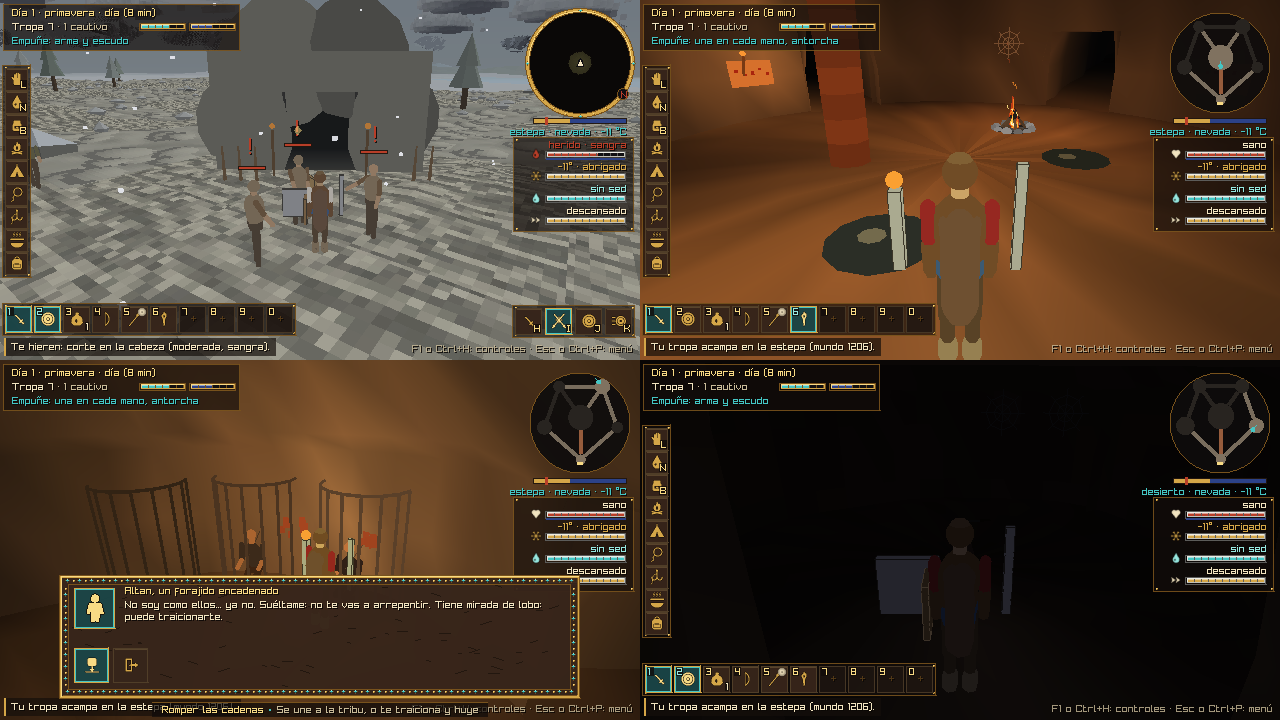
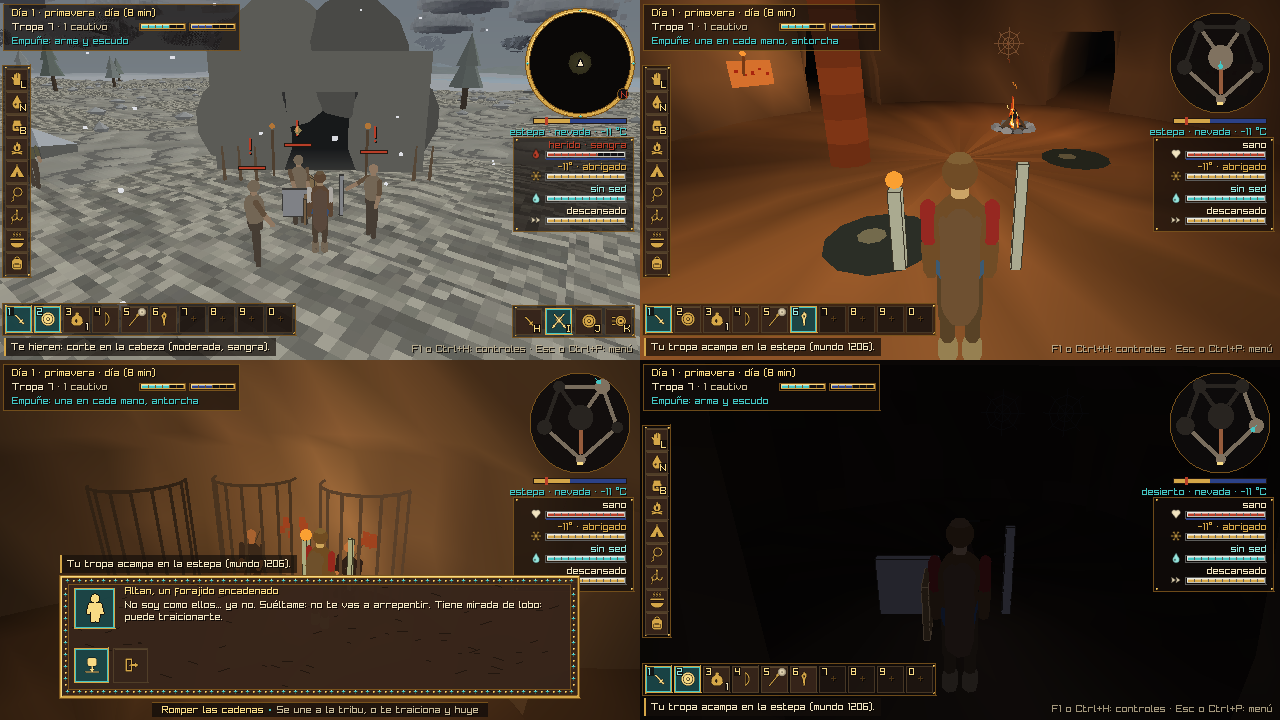
Diálogos: el registro va encima del panel y la leyenda queda sola en la base
Con un diálogo abierto (el prisionero, el comercio, la tribu, los viajes),
la leyenda de la opción elegida se dibujaba encima del registro y de la
ayuda de F1, texto sobre texto (se ve en la captura del prisionero; viene
de la v0.1.1, en todos los diálogos). Ahora el registro sube encima del
panel, desde su borde izquierdo y sin llegar a la placa de las constantes,
y la ayuda se calla mientras dura el diálogo, como con los menús. El
comercio sigue mostrando lo que se compra o se vende.

dlg_panel() da el rectángulo del panel. Recapturadas cueva_prisionero y
las_cuevas (las demás capturas no muestran diálogos).

Claude-Session: https://claude.ai/code/session_01LSTD6iWnn2bnoyhKZ9wkd2

Changed region(s): [[0.0, 0.9472, 0.1875, 1.0], [0.0312, 0.7639, 0.25, 0.7944], [0.375, 0.9778, 0.5, 1.0]]

diff --git a/src/main.c b/src/main.c
@@ -331,7 +331,7 @@ static void draw_weather_text(int right, int y, const Climate *c, Region rg) {
 
 // HUD limpio: arriba a la izquierda, lo esencial (hora, tribu, animo, manos); el registro
 // abajo, solo mientras es reciente; los controles, con F1.
-static void draw_hud(const Troop *t, float world_time, const char *hands, const char *log, float log_age, bool menu) {
+static void draw_hud(const Troop *t, float world_time, const char *hands, const char *log, float log_age, bool menu, Rectangle dialog) {
     const int x = 4 + 8, w = 236;
     DrawRectangle(4, 4, w, 46, (Color){ 20, 14, 10, 170 });
     DrawRectangleLines(4, 4, w, 46, Fade(UI_GOLD_DARK, 0.9f));
@@ -353,8 +353,12 @@ static void draw_hud(const Troop *t, float world_time, const char *hands, const 
         float a = log_age < 6.0f ? 1.0f : (8.0f - log_age) / 2.0f;
         int lw = MeasureText(log, 10);
         if (lw > VIRTUAL_W - 180) lw = VIRTUAL_W - 180;
-        // Con un menu abierto, la leyenda ocupa la base: el registro sube encima de ella.
+        // Con un menu abierto, la leyenda ocupa la base: el registro sube encima de ella. Con un dialogo,
+        // encima de su panel (lo que se compra o se vende se sigue leyendo), desde su borde y sin llegar
+        // a la placa de las constantes, que empieza 126 px antes del borde derecho.
+        if (dialog.height > 0 && lw > VIRTUAL_W - 136 - (int)dialog.x - 14) lw = VIRTUAL_W - 136 - (int)dialog.x - 14;
         int ly = menu ? VIRTUAL_H - 40 : VIRTUAL_H - 22, lx = menu ? (VIRTUAL_W - lw - 14) / 2 : 4;
+        if (dialog.height > 0) ly = (int)dialog.y - 20, lx = (int)dialog.x;
         DrawRectangle(lx, ly, lw + 14, 18, Fade((Color){ 20, 14, 10, 255 }, 0.7f * a));
         DrawRectangle(lx, ly, 2, 18, Fade(UI_GOLD, a));
         BeginScissorMode(lx, ly, lw + 14, 18);
@@ -362,7 +366,7 @@ static void draw_hud(const Troop *t, float world_time, const char *hands, const 
         EndScissorMode();
         hint_free = lx + lw + 14 + 6 <= hx; // un registro largo tapa la leyenda mientras dura
     }
-    if (menu || !hint_free) return;
+    if (menu || dialog.height > 0 || !hint_free) return;
     ui_text(hint, hx, VIRTUAL_H - 16, 10, Fade(UI_BONE_DIM, 0.8f));
 }
 
@@ -1634,7 +1638,7 @@ int main(int argc, char **argv) {
             pg_draw_hud(&g_actions, VIRTUAL_W, VIRTUAL_H); // la vista aerea: solo lo de la obra
         } else if (!menu_visible(&menu)) {
             draw_hud(&troop, world_time, ga_hands_text(&g_actions), log, log_age,
-                     g_actions.menu_open || g_actions.inv_open || g_actions.equip_open);
+                     g_actions.menu_open || g_actions.inv_open || g_actions.equip_open, dlg_panel(&g_actions.dlg, VIRTUAL_H));
             if (cv_inside()) cv_draw_plan(&terrain, VIRTUAL_W - MINIMAP_RADIUS - 10, MINIMAP_RADIUS + 13, MINIMAP_RADIUS); // el plano de la cueva
             else {
                 minimap_set_world(&minimap, terrain.world, terrain.plain);

diff --git a/src/game/dialog.c b/src/game/dialog.c
@@ -47,6 +47,12 @@ static int panel_y(const Dialog *d, int h) {
     return h - 22 - ph;
 }
 
+Rectangle dlg_panel(const Dialog *d, int h) {
+    if (!d->open) return (Rectangle){ 0 };
+    int y = panel_y(d, h);
+    return (Rectangle){ DLG_X, (float)y, DLG_W, (float)(h - 22 - y) };
+}
+
 static Rectangle opt_rect(const Dialog *d, int i, int h) {
     int y0 = panel_y(d, h) + UI_PANEL_INSET + 16 + (text_h(d) > 36 ? text_h(d) : 36) + 10;
     int c = i % DLG_COLS, r = i / DLG_COLS;

diff --git a/src/game/dialog.h b/src/game/dialog.h
@@ -37,5 +37,8 @@ void dlg_close(Dialog *d);
 // Teclado y raton: devuelve el value de la opcion aceptada, DLG_BACK con Esc, o DLG_NONE.
 int dlg_update(Dialog *d);
 void dlg_draw(const Dialog *d, int w, int h);
+// El panel (alto 0 si esta cerrado): el registro va encima, porque la leyenda de la opcion
+// elegida ocupa la base de la pantalla.
+Rectangle dlg_panel(const Dialog *d, int h);
 
 #endif
